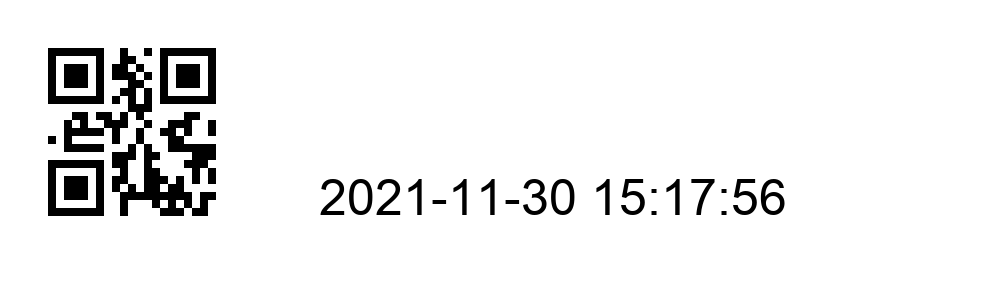
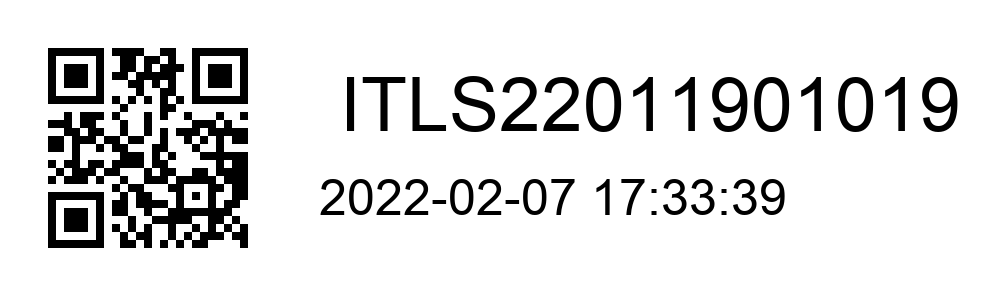
serial print with command !s

Changed region(s): [[0.0303, 0.1471, 0.2725, 0.8235], [0.333, 0.2353, 0.9687, 0.4412], [0.3935, 0.5882, 0.8174, 0.7059]]

diff --git a/print_label.py b/print_label.py
@@ -49,6 +49,25 @@ def take_input():
         if user_input == '!q' or user_input == '!Q':
             thread_running[0] = False
             print('Enter !q, program exit!')
+        elif '!s' in user_input:
+            inputs = user_input.split(',')
+
+            prefix= inputs[1]
+            for each in range(int(inputs[2]),int(inputs[3])):
+                printlabel = prefix +str(each)
+                updated_date = time.strftime('%Y-%m-%d %H:%M:%S')
+                user_input = re.sub(' +', ' ', user_input)
+
+                input_arr = user_input.split('\t')
+                print(input_arr)
+                
+                
+
+                # labelPrinter.printLabel(title, title, subtitle, updated_date,  'network', 'tcp://10.72.252.87:9100')
+                labelPrinter.printLabel(printlabel, printlabel, '',  updated_date,  'network', 'tcp://10.72.252.87:9100')
+                # print('Your title is: ', title, 'Your subtitle is: ',subtitle)
+
+
         else:
             updated_date = time.strftime('%Y-%m-%d %H:%M:%S')
             user_input = re.sub(' +', ' ', user_input)
@@ -178,6 +197,8 @@ class labelPrinter:
         send(instructions=instructions, printer_identifier=printer, backend_identifier=backend, blocking=True)
 
     # printLabel("TestQRCode", "TestQRCodeTitle", "subtitle subtitle subtitle",  "11/29/2021",  'network', 'tcp://10.72.252.87:9100')
+
+
 
 if __name__ == '__main__':
     t1 = Thread(target=my_forever_while)
